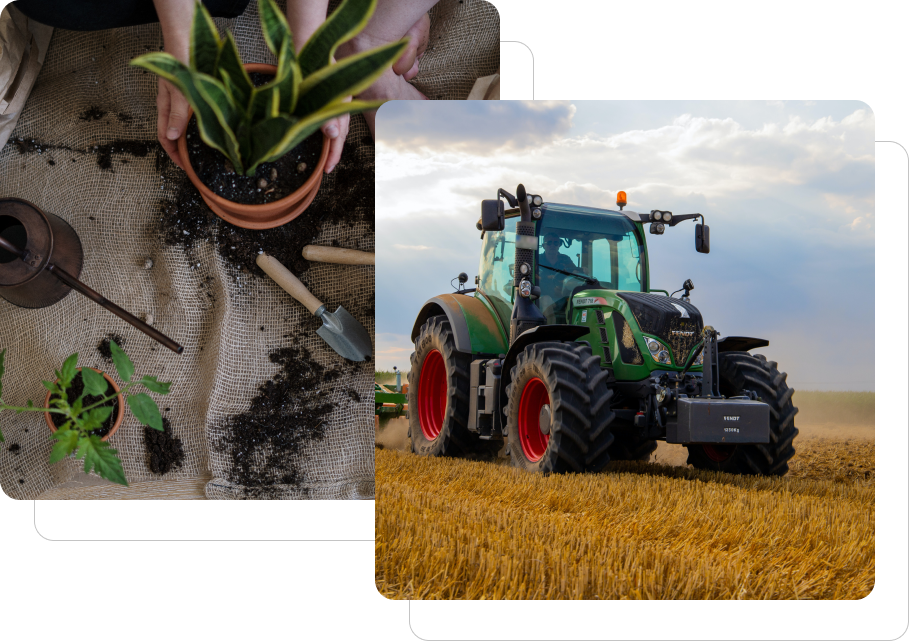
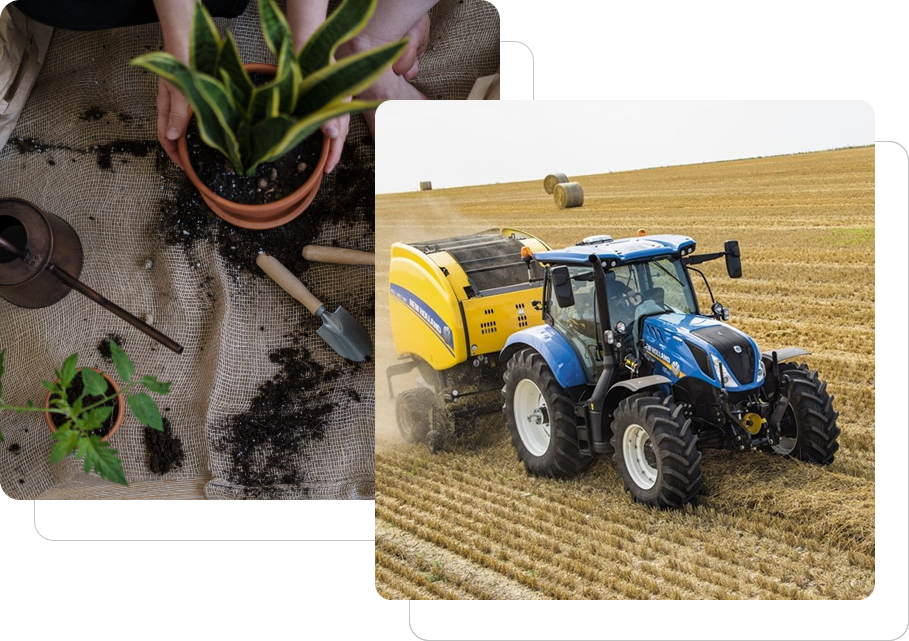
Cambio de imagen tractor

diff --git a/landing.html b/landing.html
@@ -68,12 +68,15 @@
       <section class="landing_categories_cards">
         <div class="landing_categories_card cat1">
           <h4>Insumos para invernadero</h4>
+          <a href="./insumos-para-invernadero.html">Ver más ></a>
         </div>
         <div class="landing_categories_card cat2">
           <h4>Sistemas de riego y accesorios</h4>
+          <a href="./sistemas-de-riego-y-accesorios.html">Ver más ></a>
         </div>
         <div class="landing_categories_card cat3">
           <h4>Tractores y maquinaria agrícola</h4>
+          <a href="./tractores-y-maquinaria-agricola.html">Ver más ></a>
         </div>
       </section>
       </section>
